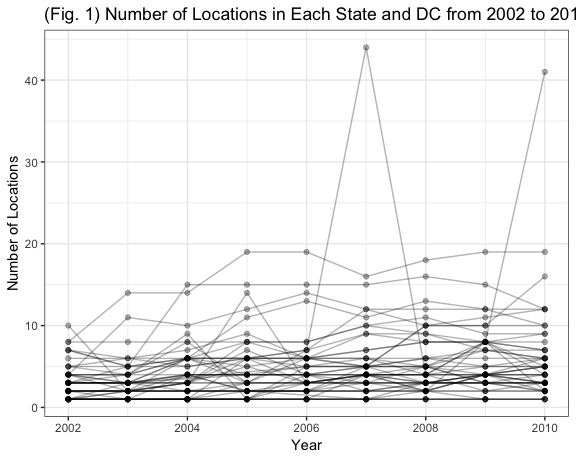
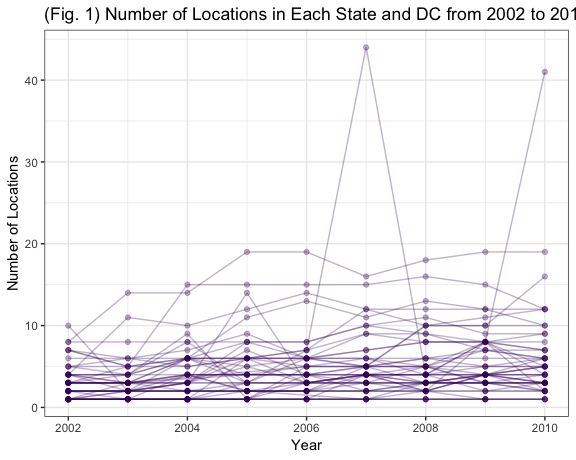
finished the two-panel plot!

diff --git a/p8105_hw3_sev2125.md b/p8105_hw3_sev2125.md
@@ -51,7 +51,7 @@ brfss %>%
   group_by(locationabbr, year) %>% 
   distinct() %>% 
   tally %>% 
-  ggplot(aes(y = n, x = year, group = locationabbr)) + 
+  ggplot(aes(y = n, x = year, group = locationabbr, color = locationabbr)) + 
     geom_point(alpha = 0.3) + 
     geom_line(alpha = 0.3) + 
     labs(
@@ -59,8 +59,9 @@ brfss %>%
       y = "Number of Locations",
       x = "Year"
     ) +
+   viridis::scale_color_viridis(option = "inferno", begin = .2, end = .2, discrete = TRUE, alpha = 0.3) +
     theme_bw() + 
-    theme(legend.position = "bottom") 
+    theme(legend.position = "none") 
 ```
 
 <img src="p8105_hw3_sev2125_files/figure-markdown_github/spaghetti_plot-1.png" width="90%" />
@@ -187,6 +188,7 @@ instacart %>%
   arrange(desc(count)) %>% 
   ggplot(., aes(x = count, y = reorder(aisle, count))) + 
     geom_point(size = 1) + 
+    viridis::scale_fill_viridis(option = "inferno", begin = .2, end = .2, discrete = TRUE) +
     labs(
         title = "Number of Items Ordered in Each Grocery Aisle",
         x = "Number Ordered", 
@@ -298,8 +300,7 @@ noaa <- noaa %>%
         snow_cm = snow/10, # convert from mm to cm 
         snwd_cm = snwd/10, # convert from mm to cm 
         tmin_c = tmin/10, # were in tenths of a degree C
-        tmax_c = tmax/10) %>% 
-  select(id:day, prcp_cm:tmax_c)# were in tenths of a degree C
+        tmax_c = tmax/10) # were in tenths of a degree C
 ```
 
 Let's re-run our summarise function to make sure this worked liked I expected it to.
@@ -316,4 +317,79 @@ noaa %>%
 
 *"For snowfall, what are the most commonly observed values? Why?"* The most commonly observed value was 0, 2008508. This is probably because it doesn't snow most days of the year.
 
-Make a two-panel plot showing the average max temperature in January and in July in each station across years. Is there any observable / interpretable structure? Any outliers? Make a two-panel plot showing (i) tmax vs tmin for the full dataset (note that a scatterplot may not be the best option); and (ii) make a plot showing the distribution of snowfall values greater than 0 and less than 100 separately by year.
+*"Make a two-panel plot showing the average max temperature in January and in July in each station across years. Is there any observable / interpretable structure? Any outliers?"*
+
+``` r
+noaa %>%
+  filter(month %in% c("01", "07")) %>% 
+  mutate(month = ifelse(month == "01", "January", "July")) %>% 
+  select(id, tmax_c, year, month) %>% 
+  group_by(id, year, month) %>% 
+  filter(!is.na(tmax_c)) %>% 
+  summarise(avg = mean(tmax_c, na.rm = TRUE)) %>% 
+  ggplot(aes(x = year, y = avg, group = id, color = month)) +   
+  viridis::scale_color_viridis(option = "inferno", begin = 0.25, end = 0.75, discrete = TRUE) +
+  geom_line(alpha = 0.1) +
+  facet_grid(rows = vars(month)) + 
+     labs(
+      title = "Maximum Temperatures Recorded at Each Site", 
+      y = "Average Max Temperature, in Degrees C",
+      x = "Year"
+    ) +
+    theme_bw() + 
+    theme(legend.position = "none") + 
+    theme(axis.text.x = element_text(angle = 90, hjust = 1))
+```
+
+<img src="p8105_hw3_sev2125_files/figure-markdown_github/unnamed-chunk-11-1.png" width="90%" />
+
+All of the temperatures in July are much warmer than in January across all various sites. There seems to be more variability in site temperatures in January, compared to July, as well as a wider range of termperatures across sites. It looks like the January temperatuers are getting slightly higher over time, but I don't see much of a trend for the July temperatures.
+
+*"Make a two-panel plot showing (i) tmax vs tmin for the full dataset (note that a scatterplot may not be the best option); and (ii) make a plot showing the distribution of snowfall values greater than 0 and less than 100 separately by year."*
+
+``` r
+plot_i <- noaa %>%
+  ggplot(aes(x= tmin_c, y = tmax_c)) +
+  stat_binhex(bins = 80, start = 0.1) + 
+  viridis::scale_fill_viridis(option = "inferno") + 
+     labs(
+      title = "Comparing Daily Minimum and Maximum Temperatures", 
+      y = "Maximum Temperatures, (Degrees Celsius)",
+      x = "Minimum Temperatures, (Degrees Celsius)", 
+      fill = "Density"
+    ) +
+    theme_bw() + 
+    theme(legend.position = "right") 
+```
+
+    ## Warning: Ignoring unknown parameters: start
+
+``` r
+plot_ii <- noaa %>%
+  filter(snow_cm > 0 & snow_cm < 100) %>% 
+  select(snow_cm, year) %>% 
+  ggplot(aes(x = snow_cm, y = year, fill = year)) +
+    ggridges::geom_density_ridges(scale = 2) + 
+    viridis::scale_fill_viridis(option = "inferno", begin = .2, end = .2, discrete = TRUE, alpha = 0.3) + 
+  labs(
+      title = "Snow Fall by Year", 
+      y = "",
+      x = "Snow Fall in Centimeters"
+    ) +
+    theme_bw() + 
+    theme(legend.position = "none") 
+```
+
+``` r
+ggpubr::ggarrange(plot_i, plot_ii, 
+          labels = c("I.", "II."),
+          ncol = 1, nrow = 2)
+```
+
+    ## Warning: Removed 1136276 rows containing non-finite values (stat_binhex).
+
+    ## Picking joint bandwidth of 0.622
+
+<img src="p8105_hw3_sev2125_files/figure-markdown_github/unnamed-chunk-14-1.png" width="90%" />
+
+From the above plots, we can see that minimum and maximum temperatures are highly correlated (plot I.). With these hexagon bins, we can see a few "hotspots" with highly dense datasets. In Plot II., we can see how the distribution of the snow fall changes by the year.
